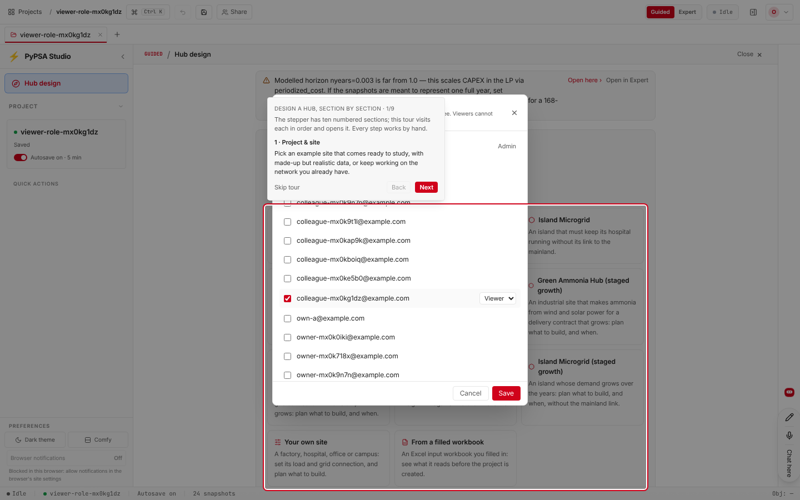
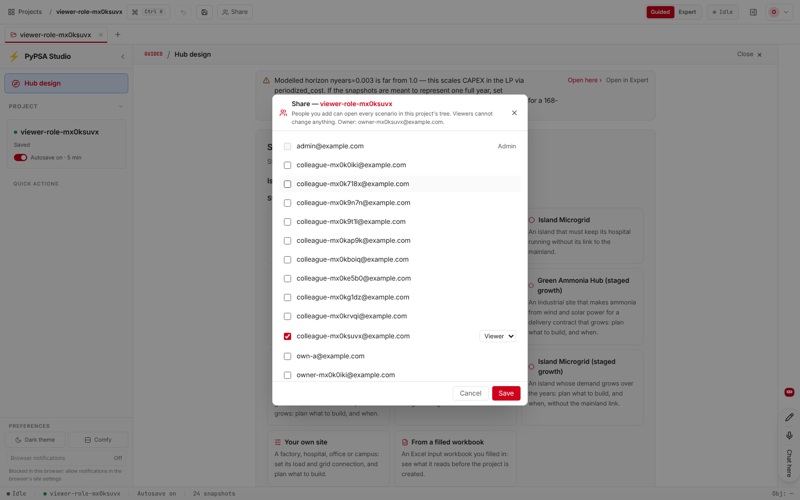
Viewer refusal names the owner; retake share dialog shot; Expert Share shot
Claude-Session: https://claude.ai/code/session_01G7qCukvjzifUbQssF9mq8H

diff --git a/pypsa-gui/backend/services/project_write_gate.py b/pypsa-gui/backend/services/project_write_gate.py
@@ -53,9 +53,14 @@ MESSAGE = "You can view this project. Ask its owner for edit access."
 REFUSAL = f"{KIND}: {MESSAGE}"  # a run's `error` when its requester lost edit access
 
 
-def refusal() -> HTTPException:
+def message(owner_email: str | None = None) -> str:
+    """The refusal sentence, naming the owner when known (the GUI banner's words)."""
+    return MESSAGE.replace("its owner", owner_email) if owner_email else MESSAGE
+
+
+def refusal(owner_email: str | None = None) -> HTTPException:
     # The kind is spelled out: the tool-error manifest test derives kinds from literals.
-    return HTTPException(403, {"error_kind": "project_view_only", "message": MESSAGE})
+    return HTTPException(403, {"error_kind": "project_view_only", "message": message(owner_email)})
 
 
 def require_writable(db: DBSession, user: User | None, project: Project | None) -> None:
@@ -67,7 +72,7 @@ def require_writable(db: DBSession, user: User | None, project: Project | None) 
     if user is None or project is None:
         return
     if project_acl.project_role(db, user, project) == project_acl.VIEW:
-        raise refusal()
+        raise refusal(project_acl.owner_email(db, project))
 
 
 def is_viewer(db: DBSession, user: User | None, project_uuid: str | None) -> bool:

diff --git a/pypsa-gui/backend/services/project_acl.py b/pypsa-gui/backend/services/project_acl.py
@@ -254,10 +254,15 @@ def access_fields(db: DBSession, user: User, project: Project) -> dict[str, obje
     Share dialog may save, and `owner_email` names who to ask for edit access
     (project-viewer-role 05). One place, so the three responses cannot drift.
     """
-    root = resolve_tree_root(db, project)
-    creator = db.get(User, root.created_by) if root.created_by is not None else None
     return {
         "my_access": project_role(db, user, project),
         "can_manage_members": can_manage_membership(db, user, project),
-        "owner_email": creator.email if creator is not None else None,
+        "owner_email": owner_email(db, project),
     }
+
+
+def owner_email(db: DBSession, project: Project) -> str | None:
+    """Email of the person who created the project's tree root: who to ask for edit access."""
+    root = resolve_tree_root(db, project)
+    creator = db.get(User, root.created_by) if root.created_by is not None else None
+    return creator.email if creator is not None else None

diff --git a/pypsa-gui/backend/harness/restrictions.py b/pypsa-gui/backend/harness/restrictions.py
@@ -100,7 +100,8 @@ def capture(session):
         # is refused at the next write (project-viewer-role 01, GK B R3).
         role = project_acl.project_role(db, user, project)
         return {**read(db, user.id, project.id), 'owner_id': str(user.id), 'project_id': str(project.id),
-                'project_role': role}
+                'project_role': role,
+                'owner_email': project_acl.owner_email(db, project)}
 
 
 def role_admits(snapshot, tier):
@@ -122,7 +123,7 @@ def _require_role(snapshot, tier):
     # A viewer's write is refused whatever personal rule is saved: a saved
     # 'standard' rule never loosens the role (project-viewer-role 01).
     if not role_admits(snapshot, tier):
-        raise project_write_gate.refusal()
+        raise project_write_gate.refusal((snapshot or {}).get('owner_email'))
 
 
 def require_allowed(snapshot, tier):

diff --git a/pypsa-gui/backend/tests/test_viewer_role_members.py b/pypsa-gui/backend/tests/test_viewer_role_members.py
@@ -341,3 +341,11 @@ def test_refusal_cause_sentence_matches_the_frontend_wording():
     ).read_text()
     assert MESSAGE.split(". ")[0] + "." in src
     assert MESSAGE == "You can view this project. Ask its owner for edit access."
+
+
+def test_refusal_names_the_owner_like_the_banner():
+    from services.project_write_gate import MESSAGE, refusal
+
+    named = refusal("o@x.com").detail["message"]
+    assert named == "You can view this project. Ask o@x.com for edit access."
+    assert refusal().detail["message"] == MESSAGE
